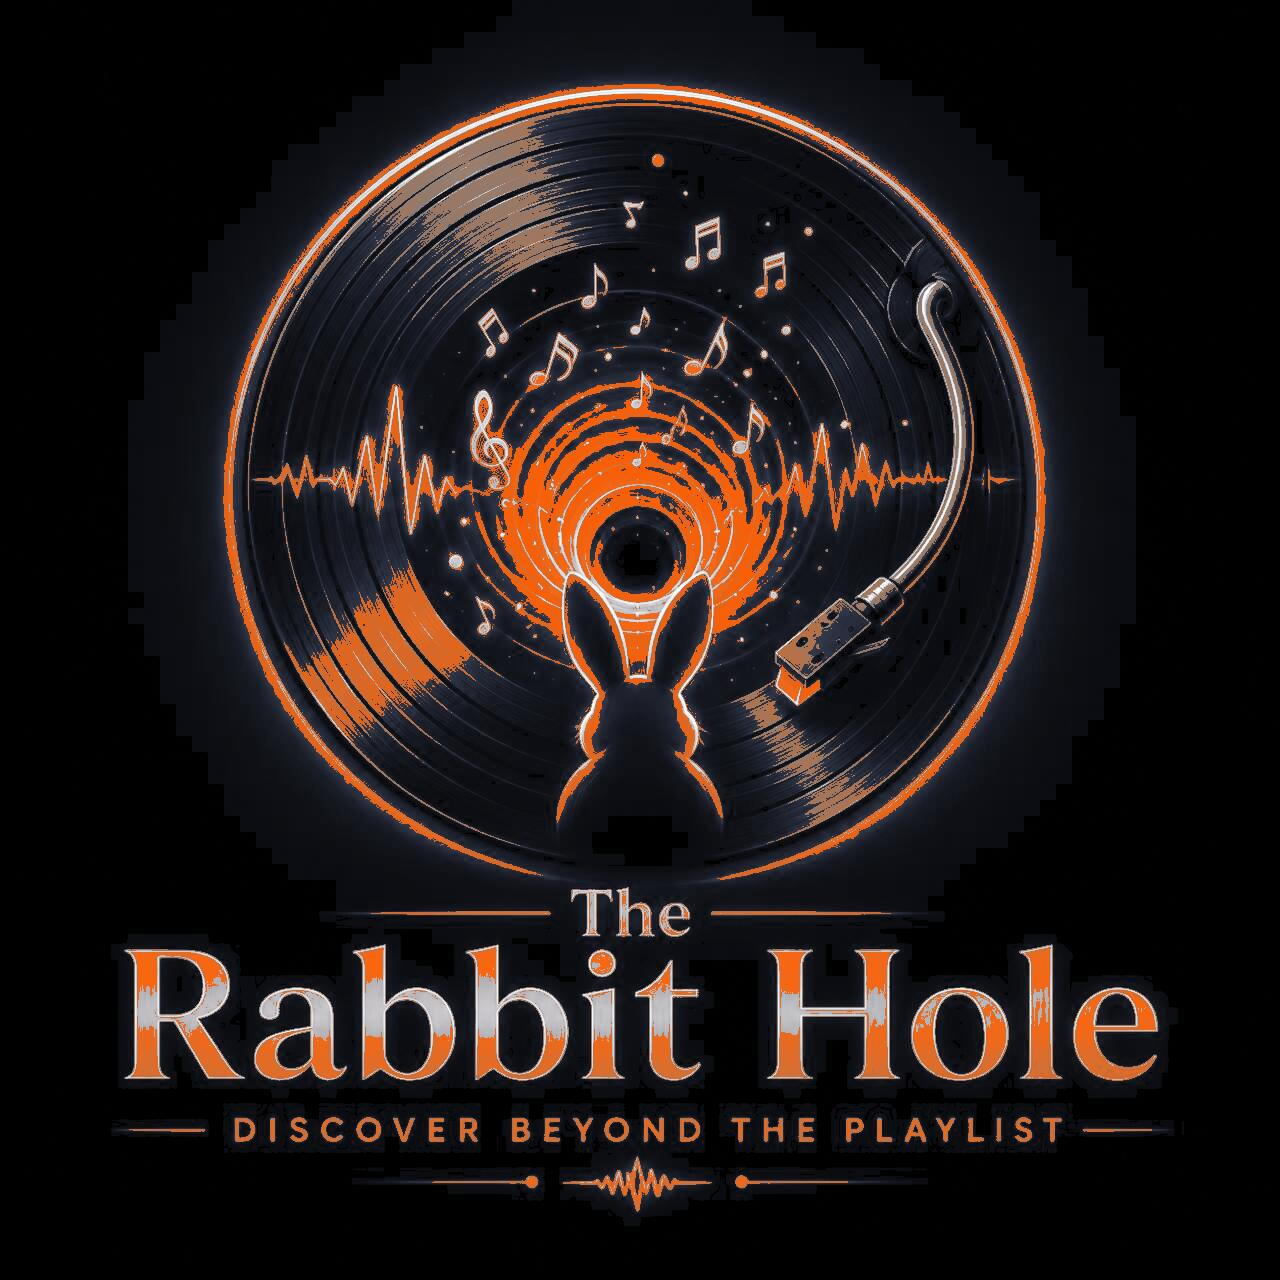
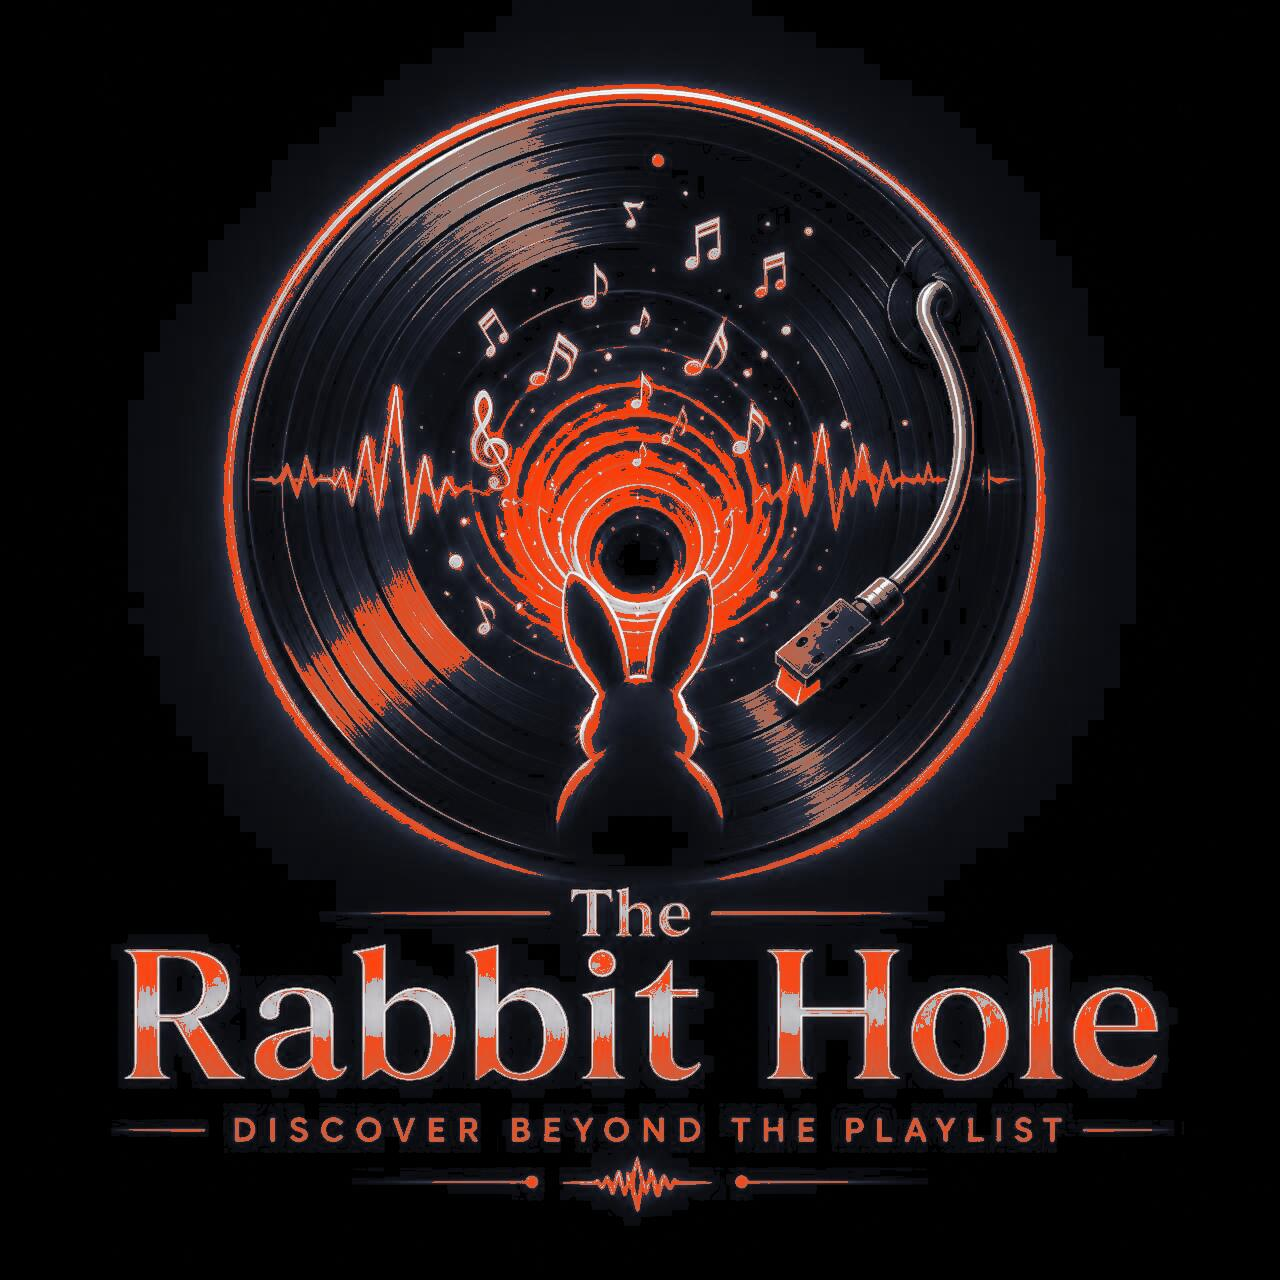
style(ui): brighten Dark Orange's accent to #e44a20
The accent tints were #d94f00 at 0.85 opacity, which over the blue-black
page reads darker than the orange it was meant to match. They are now
#e44a20 at 0.95 opacity, and mid accents take the same hue (12.9),
still clamped to keep 4.5:1 contrast on the page.

diff --git a/test/uiThemes.test.js b/test/uiThemes.test.js
@@ -79,7 +79,7 @@ test("dark orange makes the page blue-black, light accents white and mid accents
   for (const c of ["#7a4dff", "#9b3dd6", "#5b2a9e", "#c02bb0"]) {
     const out = mapColor(c, rules("dark-orange"));
     const { h } = hsl(out);
-    assert.ok(h >= 18 && h <= 26, `${c} -> ${out} has hue ${h}`);
+    assert.ok(h >= 10 && h <= 16, `${c} -> ${out} has hue ${h}`);
     assert.ok(contrast(out, page) >= 4.5, `${c} -> ${out} contrast ${contrast(out, page).toFixed(2)}`);
   }
 });
@@ -87,7 +87,7 @@ test("dark orange makes the page blue-black, light accents white and mid accents
 test("dark orange paints strong accent tints solid orange and leaves faint lines and text neutral", () => {
   const spread = (c) => { const [r, g, b] = c.match(/\d+/g).map(Number); return Math.max(r, g, b) - Math.min(r, g, b); };
   for (const c of ["rgba(167, 124, 255, 0.32)", "rgba(217, 179, 255, 0.44)", "rgba(225, 165, 255, 0.48)"]) {
-    assert.equal(mapColor(c, rules("dark-orange")), "rgba(217, 79, 0, 0.85)", c);
+    assert.equal(mapColor(c, rules("dark-orange")), "rgba(228, 74, 32, 0.95)", c);
   }
   for (const c of ["rgba(205, 166, 255, 0.24)", "rgba(217, 179, 255, 0.1)", "rgba(238, 228, 252, 0.82)", "rgba(250, 246, 255, 1)"]) {
     assert.ok(spread(mapColor(c, rules("dark-orange"))) <= 16, `${c} -> ${mapColor(c, rules("dark-orange"))} is not neutral`);
